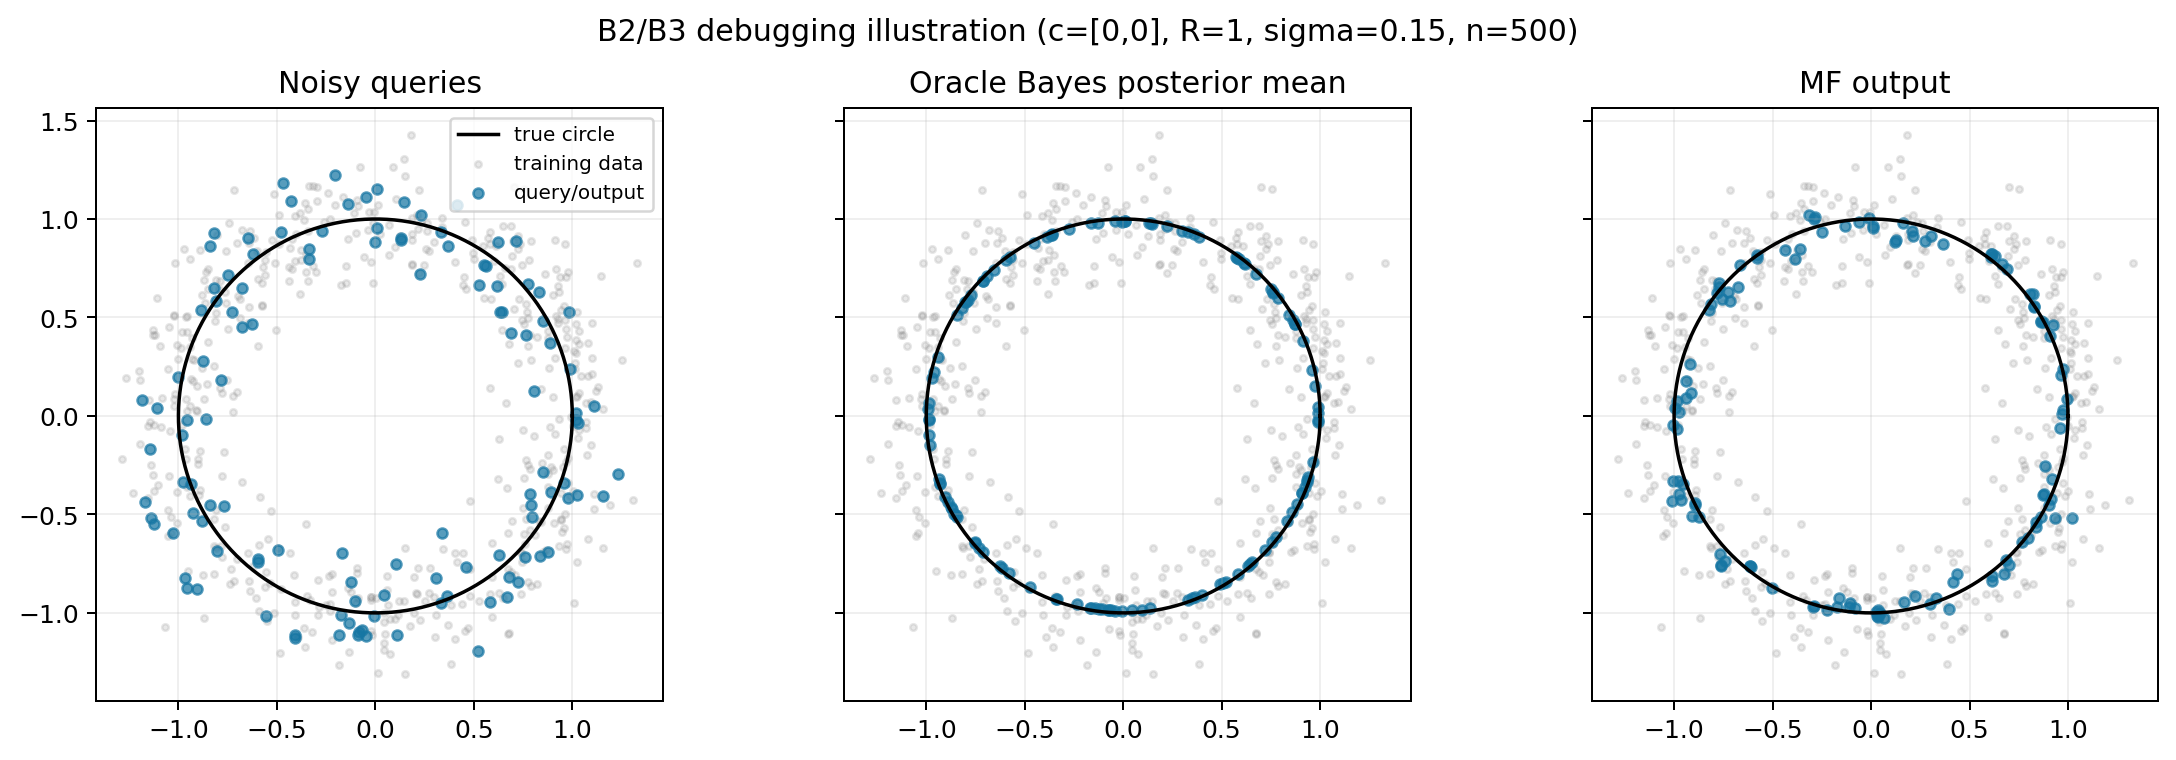
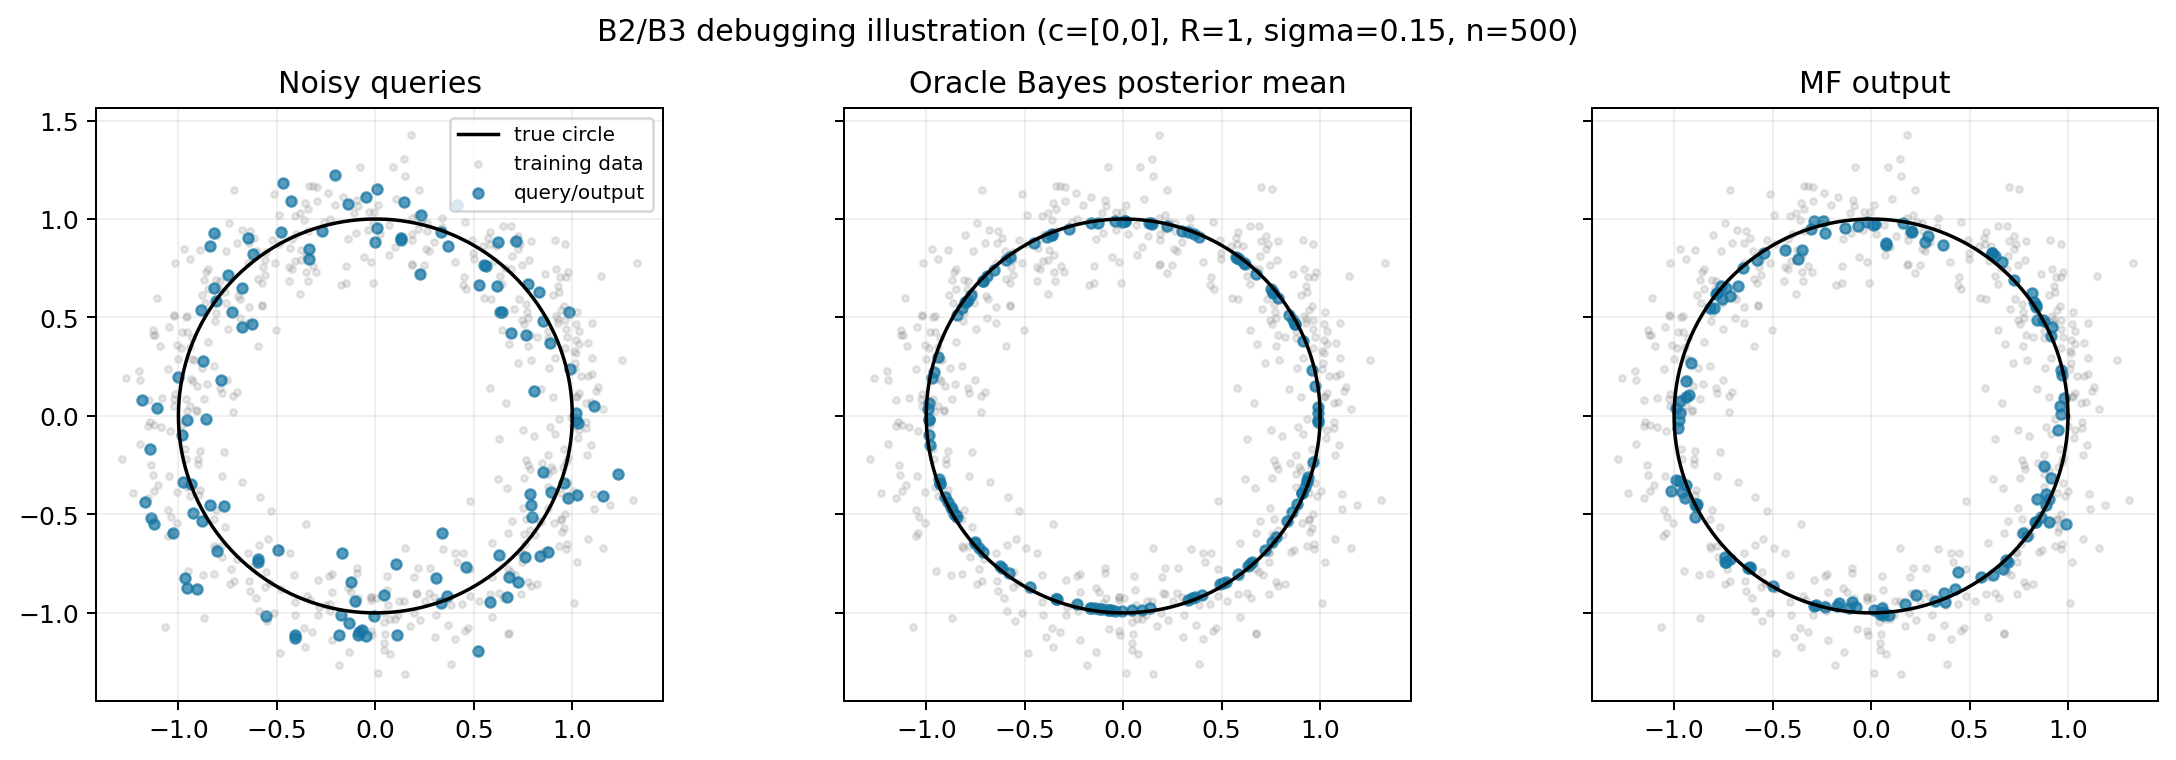
correction of r2 in MF

diff --git a/part_b/validation.py b/part_b/validation.py
@@ -31,6 +31,12 @@ def run_validation():
             # Separate random calls create independent training and query sets.
             train = generate_noisy_circle(rng, n, sigma)
             query = generate_noisy_circle(rng, 120, sigma)
+            expected_radii = (
+                5.0 * sigma / np.log10(n),
+                5.0 * sigma / np.log10(n),
+                10.0 * sigma * np.sqrt(np.log(1.0 / sigma)) / np.log10(n),
+            )
+            np.testing.assert_allclose(assignment_radii(n, sigma), expected_radii, rtol=1e-14)
             clean_query = query - rng.normal(0.0, sigma, size=query.shape)
             # Exercise the oracle and plug-in interfaces independently. For
             # this debugging check only, the plug-in arguments are known values.

diff --git a/part_b/manifold_fitting.py b/part_b/manifold_fitting.py
@@ -22,7 +22,7 @@ def assignment_radii(n, sigma):
     denominator = math.log10(n)
     r0 = 5.0 * sigma / denominator
     r1 = r0
-    r2 = math.sqrt(10.0 * sigma * math.log(1.0 / sigma)) / denominator
+    r2 = 10.0 * sigma * math.sqrt(math.log(1.0 / sigma)) / denominator
     return r0, r1, r2
 
 

diff --git a/README.md b/README.md
@@ -34,9 +34,9 @@ Under squared Euclidean loss, conditional expected loss decomposes as `E[||a-X||
 
 `manifold_fitting(Y_train, Y_query, sigma)` requires independent arrays shaped `(n,2)` and `(m,2)`. It returns `(predictions, diagnostics)`. The wrapper calls the reference function `mf_weighted.manifold_fit_weighted` with `k=3` and explicit assignment radii:
 
-`r0 = r1 = 5*sigma/log10(n)` and `r2 = sqrt(10*sigma*log(1/sigma))/log10(n)`.
+`r0 = r1 = 5*sigma/log10(n)` and `r2 = 10*sigma*sqrt(log(1/sigma))/log10(n)`.
 
-The instructor function exposes `MFDiagnostics` with counts for `empty_sphere`, `zero_direction`, and `empty_cylinder`, and aggregate count/rate. Thus the wrapper reports the fallback conditions directly without instrumentation. The instructor function's built-in default for `r2` differs from the assignment formula, so the wrapper supplies the assignment value explicitly; the core source is not modified.
+The instructor function exposes `MFDiagnostics` with counts for `empty_sphere`, `zero_direction`, and `empty_cylinder`, and aggregate count/rate. Thus the wrapper reports the fallback conditions directly without instrumentation. The instructor function's built-in `r2` default matches the assignment formula; the wrapper supplies the same value explicitly, and the core source remains unchanged.
 
 Step 1 uses a local spherical neighborhood around a query and its weighted center to estimate a contraction direction. Step 2 weights observations in a cylinder aligned with that direction, with a transverse radius and an axial taper, and returns their weighted center. If the first neighborhood is empty the query is returned; if the direction is numerically zero the first weighted center is returned; if the cylinder is empty the first weighted center is returned.
 
